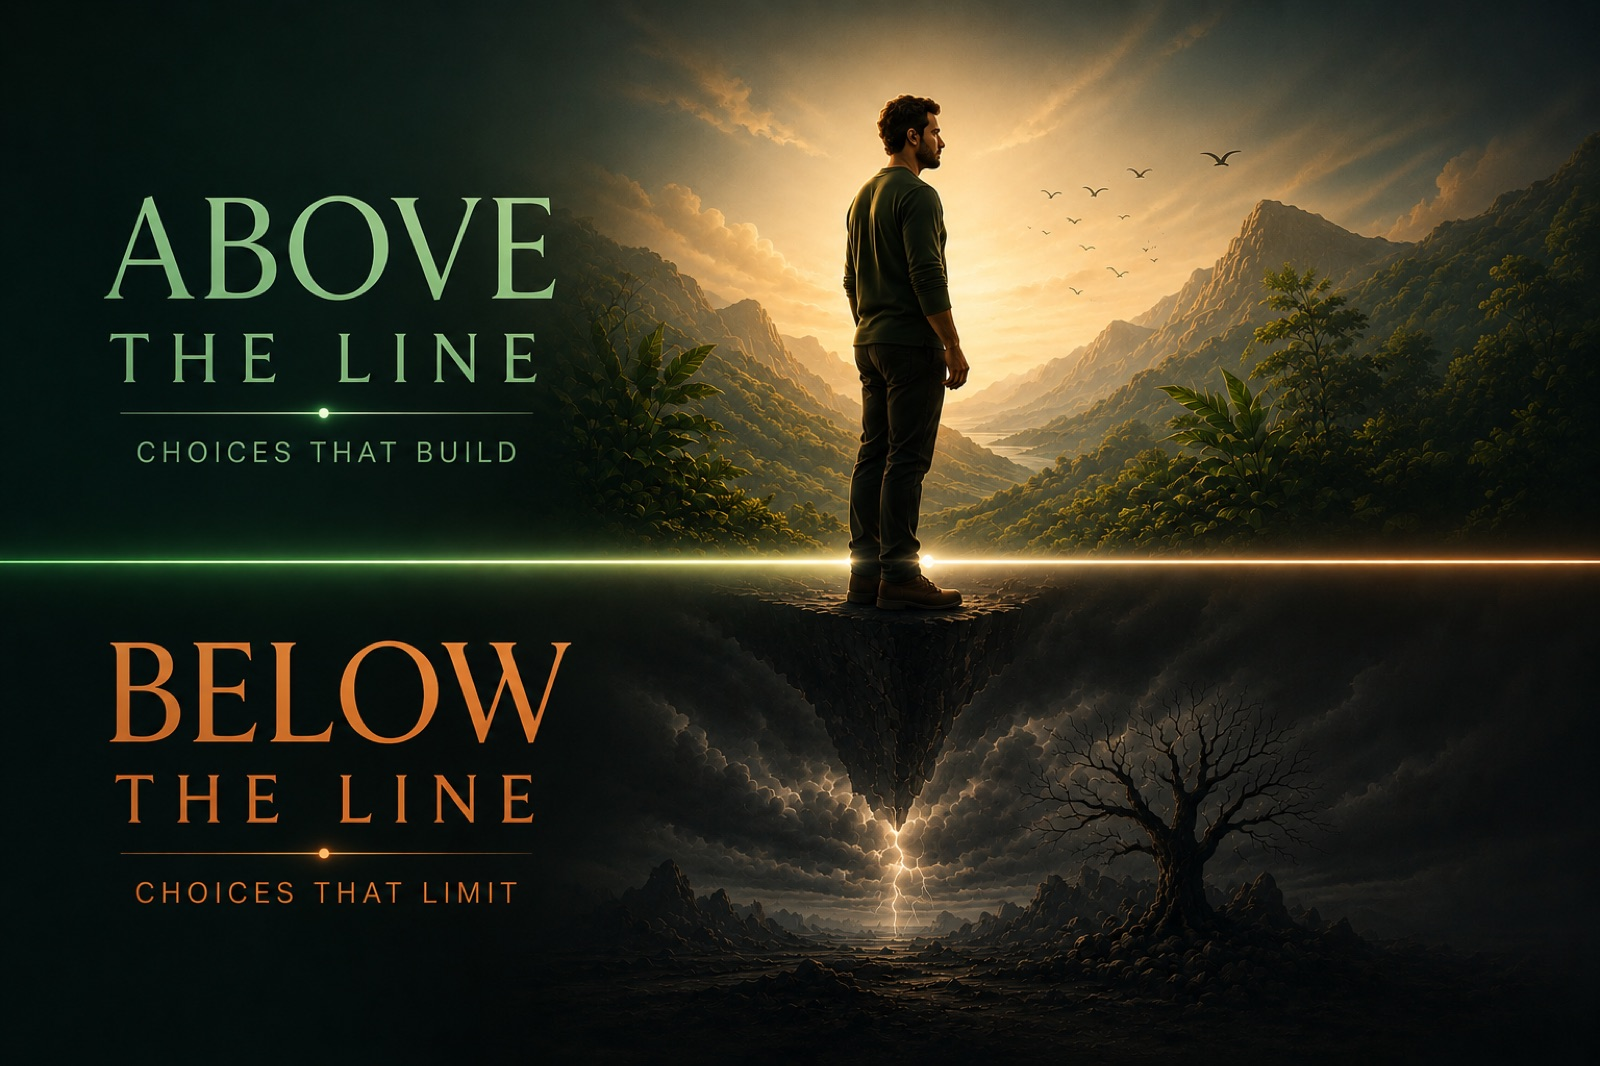
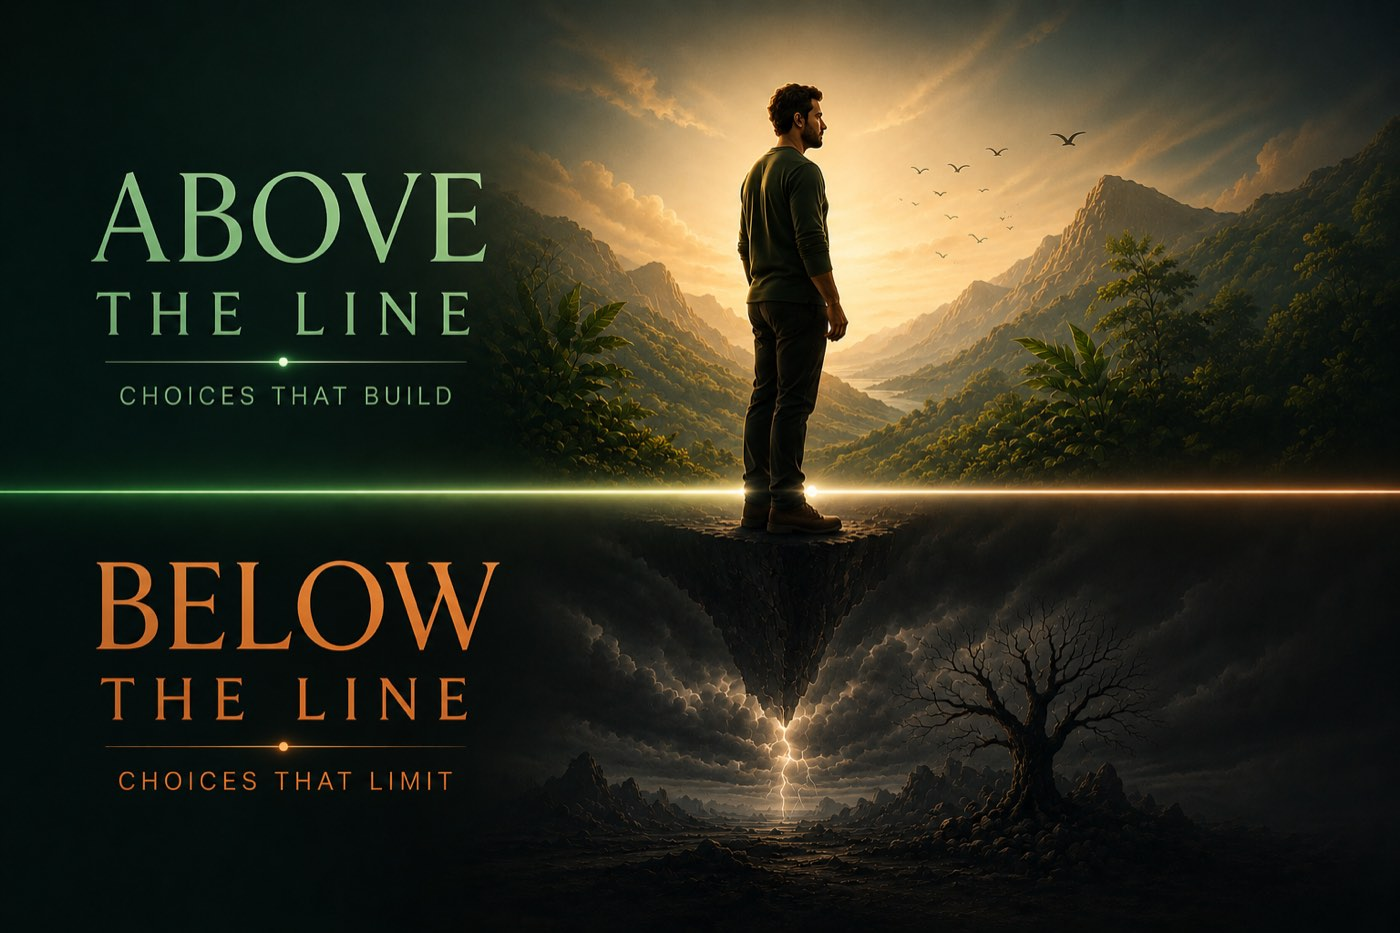
Speed pass — half the bandwidth, same experience
Measured first (first visit, gzipped): Library was ~2.2MB. The cuts:
- Covers lazy-load: card art now downloads only as cards near the viewport
  (IntersectionObserver, 400px margin) with first-8 eager for instant paint
  and a broken-IO fallback that restores old behavior after 2.5s — saves up
  to ~1.4MB on Library, and mobile loads only what's seen
- GSAP (45KB gz) now loads on demand, desktop-only, after first paint —
  phones never download it; initMotion's no-gsap guard means content is
  always visible regardless
- Hero cover re-encoded from the original: 332KB → 175KB
- Fonts diet: Cormorant 5 variants → 3 (600, 700, italic 600) — the only
  weights the design uses
- Deploy-time minification (esbuild in the Pages workflow): app/data/auth/sw
  JS + CSS minified in the artifact only — local source stays readable;
  app.js 42→36KB gz, styles 19→15KB gz
- Preconnect to www.gstatic.com (Firebase handshake starts early)
- Service worker bumped to v36 (repeat visits already near-zero network)
- Cache v=edr36

diff --git a/app.js b/app.js
@@ -165,7 +165,7 @@ function cardHTML(c, opts = {}) {
       <button class="icon-btn" data-action="play" data-id="${c.id}" aria-label="Play ${ctitle(c)}" title="Play">▶</button>
       <button class="icon-btn ${inPath(c.id) ? 'in-path' : ''}" data-action="toggle-path" data-id="${c.id}" aria-label="${inPath(c.id) ? 'Remove from your path' : 'Add to your path'}" title="${inPath(c.id) ? 'In your path' : 'Add to path'}">${inPath(c.id) ? '✓' : '＋'}</button>
     </div>
-    <div class="thumb t-grad-${c.grad} ${c.poster ? 'has-poster' : ''}"${c.poster ? ` style="background-image:url('${c.poster}')"` : ''}>${c.poster ? '' : `<span class="big-icon">${svgIcon(c.icon)}</span>`}<div class="chip-row">${chips.join('')}</div></div>
+    <div class="thumb t-grad-${c.grad} ${c.poster ? 'has-poster' : ''}"${c.poster ? ` data-bg="${c.poster}"` : ''}>${c.poster ? '' : `<span class="big-icon">${svgIcon(c.icon)}</span>`}<div class="chip-row">${chips.join('')}</div></div>
     <div class="card-body">
       <h3>${ctitle(c)}</h3>
       <p class="card-hook">${chook(c)}</p>
@@ -1230,6 +1230,7 @@ function render() {
   if (route !== 'community') teardownCommunity();
   $('#app').innerHTML = route === 'course' ? renderCourse(param) : (routes[route] || renderHome)();
   makeFocusable($('#app'));
+  lazyBackgrounds();
   if (route === 'community') initCommunity();
   if (route === 'admin' && isAdmin()) initAdmin();
   if (route === 'progress' && boardCache === null) initBoard();
@@ -1246,6 +1247,24 @@ function render() {
     };
   }
   initMotion();
+}
+/* covers download only as their cards approach the viewport (~1.4MB saved on Library) */
+const loadBg = el => { el.style.backgroundImage = `url('${el.dataset.bg}')`; el.removeAttribute('data-bg'); };
+let ioEverFired = false;
+const bgObserver = ('IntersectionObserver' in window) ? new IntersectionObserver(entries => {
+  ioEverFired = true;
+  entries.forEach(e => { if (e.isIntersecting) { loadBg(e.target); bgObserver.unobserve(e.target); } });
+}, { rootMargin: '400px' }) : null;
+function lazyBackgrounds() {
+  const els = [...document.querySelectorAll('.thumb[data-bg]')];
+  els.slice(0, 8).forEach(loadBg);                 /* above the fold: instant */
+  const rest = els.slice(8);
+  if (!bgObserver) { rest.forEach(loadBg); return; }
+  rest.forEach(el => bgObserver.observe(el));
+  clearTimeout(lazyBackgrounds._t);
+  lazyBackgrounds._t = setTimeout(() => {          /* observer broken? load everything (old behavior) */
+    if (!ioEverFired) document.querySelectorAll('.thumb[data-bg]').forEach(loadBg);
+  }, 2500);
 }
 addEventListener('hashchange', render);
 
@@ -1286,9 +1305,20 @@ const BLOCK_SEL = '.hero-content > *, .hero-side, .pillar, .rail-section, .path-
 function forceVisible() {
   document.querySelectorAll(BLOCK_SEL).forEach(el => { el.style.opacity = '1'; el.style.transform = 'none'; });
 }
+/* GSAP loads on demand — desktop only, never on phones (bandwidth + battery) */
+let motionLibsState = 0; /* 0 none · 1 loading · 2 ready */
+function loadMotionLibs() {
+  if (motionLibsState || innerWidth <= 1024 || reduceMotion) return;
+  motionLibsState = 1;
+  const add = s => new Promise(r => { const el = document.createElement('script'); el.src = s; el.onload = r; el.onerror = r; document.head.appendChild(el); });
+  add('https://cdnjs.cloudflare.com/ajax/libs/gsap/3.12.5/gsap.min.js')
+    .then(() => add('https://cdnjs.cloudflare.com/ajax/libs/gsap/3.12.5/ScrollTrigger.min.js'))
+    .then(() => { motionLibsState = 2; initMotion(); });
+}
 function initMotion() {
   const G = window.gsap;
-  if (!G || reduceMotion) { forceVisible(); return; }
+  if (!G) { forceVisible(); loadMotionLibs(); return; }
+  if (reduceMotion) { forceVisible(); return; }
   const ST = window.ScrollTrigger;
   if (ST) { G.registerPlugin(ST); ST.getAll().forEach(t => t.kill()); }
 

diff --git a/index.html b/index.html
@@ -6,7 +6,7 @@
 <title>EdenRise Academy — Regenerative Living, Learned</title>
 <meta name="description" content="EdenRise Academy — learn regenerative living, land stewardship and the rhythm of the land, guided by adaptive AI learning paths and a personal AI tutor.">
 <meta name="theme-color" content="#0e140f">
-<link rel="icon" type="image/svg+xml" href="favicon.svg?v=edr35">
+<link rel="icon" type="image/svg+xml" href="favicon.svg?v=edr36">
 <meta property="og:title" content="EdenRise Academy — Regenerative Living, Learned">
 <meta property="og:description" content="Where nature leads, the land heals, and stewardship shapes everything we learn.">
 <meta property="og:type" content="website">
@@ -20,10 +20,11 @@
 <meta name="twitter:image" content="https://meridante-dev.github.io/lumina-learning/og-image.png">
 <link rel="manifest" href="manifest.json">
 <link rel="apple-touch-icon" href="icon-180.png">
+<link rel="preconnect" href="https://www.gstatic.com" crossorigin>
 <link rel="preconnect" href="https://fonts.googleapis.com">
 <link rel="preconnect" href="https://fonts.gstatic.com" crossorigin>
-<link href="https://fonts.googleapis.com/css2?family=Cormorant+Garamond:ital,wght@0,500;0,600;0,700;1,500;1,600&family=Inter:wght@400;500;600;700&display=swap" rel="stylesheet">
-<link rel="stylesheet" href="styles.css?v=edr35">
+<link href="https://fonts.googleapis.com/css2?family=Cormorant+Garamond:ital,wght@0,600;0,700;1,600&family=Inter:wght@400;500;600;700&display=swap" rel="stylesheet">
+<link rel="stylesheet" href="styles.css?v=edr36">
 <script>try{var m=localStorage.getItem('eden-auth-mode');document.documentElement.setAttribute('data-gate',(m==='guest'||m==='firebase')?'off':'on');}catch(e){document.documentElement.setAttribute('data-gate','on');}</script>
 </head>
 <body>
@@ -247,11 +248,9 @@
 
 <div id="toasts"></div>
 
-<script src="https://cdnjs.cloudflare.com/ajax/libs/gsap/3.12.5/gsap.min.js"></script>
-<script src="https://cdnjs.cloudflare.com/ajax/libs/gsap/3.12.5/ScrollTrigger.min.js"></script>
-<script src="data.js?v=edr35"></script>
-<script src="app.js?v=edr35"></script>
-<script type="module" src="auth.js?v=edr35"></script>
+<script src="data.js?v=edr36"></script>
+<script src="app.js?v=edr36"></script>
+<script type="module" src="auth.js?v=edr36"></script>
 <script>
 /* Safety net: if the Firebase module can't load (blocked CDN, offline), make sure
    the "continue as guest" button still dismisses the gate so no one is stuck. */

diff --git a/sw.js b/sw.js
@@ -1,7 +1,7 @@
 /* EdenRise Academy — offline app shell + cached art
    Strategy: network-first for code/HTML (updates always win, cache is the
    offline fallback); cache-first for media/fonts (immutable-ish). */
-const VERSION = 'edenrise-v30';
+const VERSION = 'edenrise-v36';
 const CORE = ['./', './index.html', './styles.css', './app.js', './data.js', './manifest.json', './favicon.svg', './icon-192.png', './icon-512.png', './og-image.png'];
 
 self.addEventListener('install', e => {